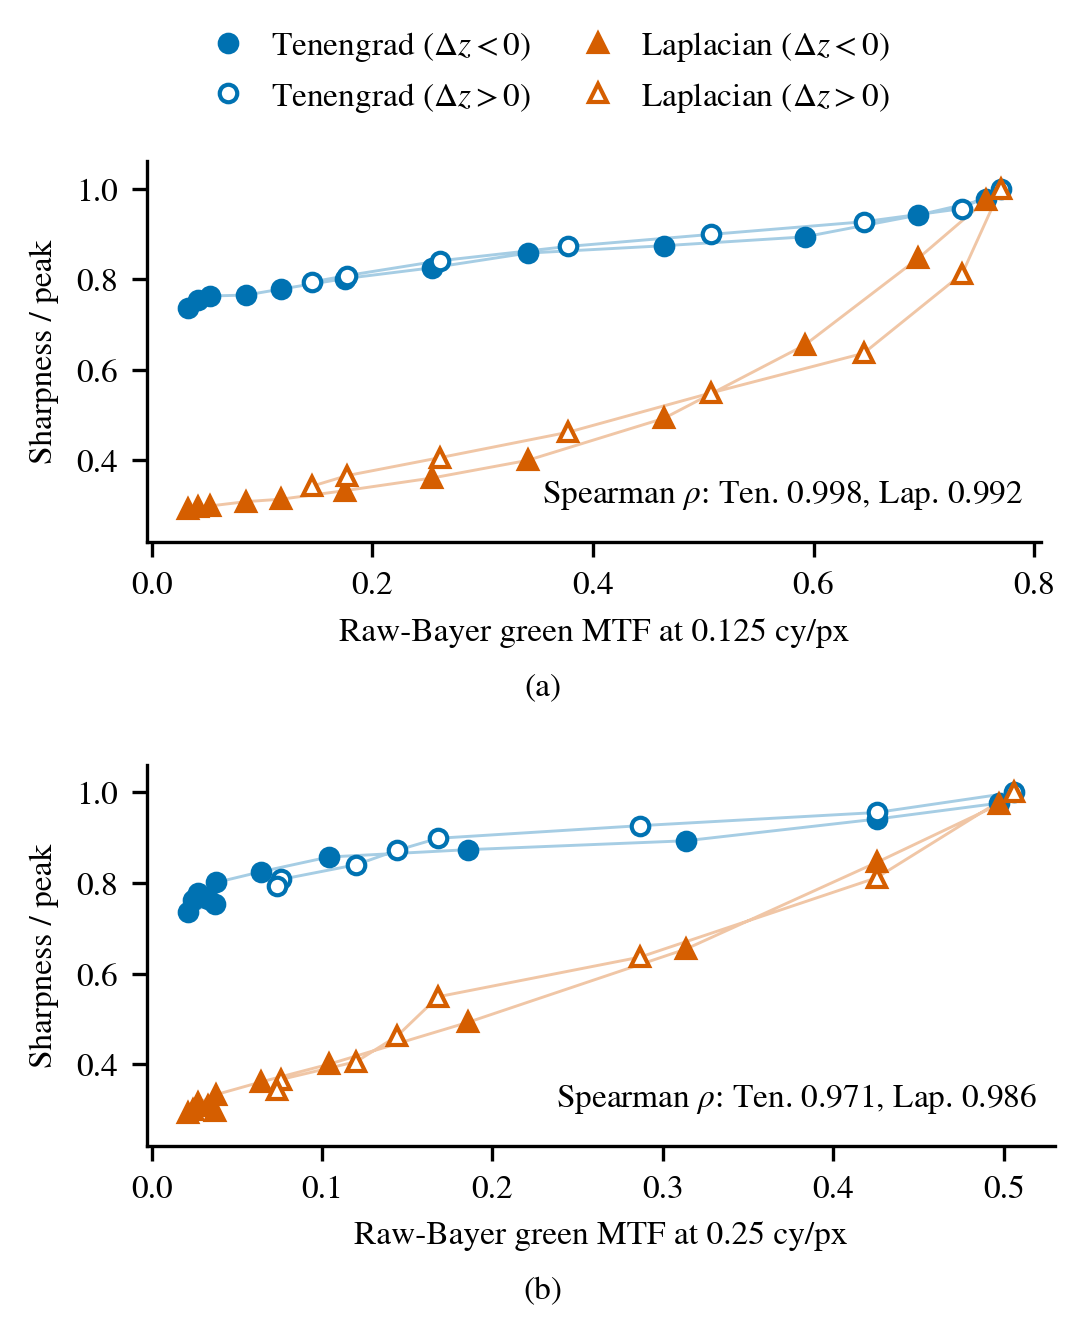
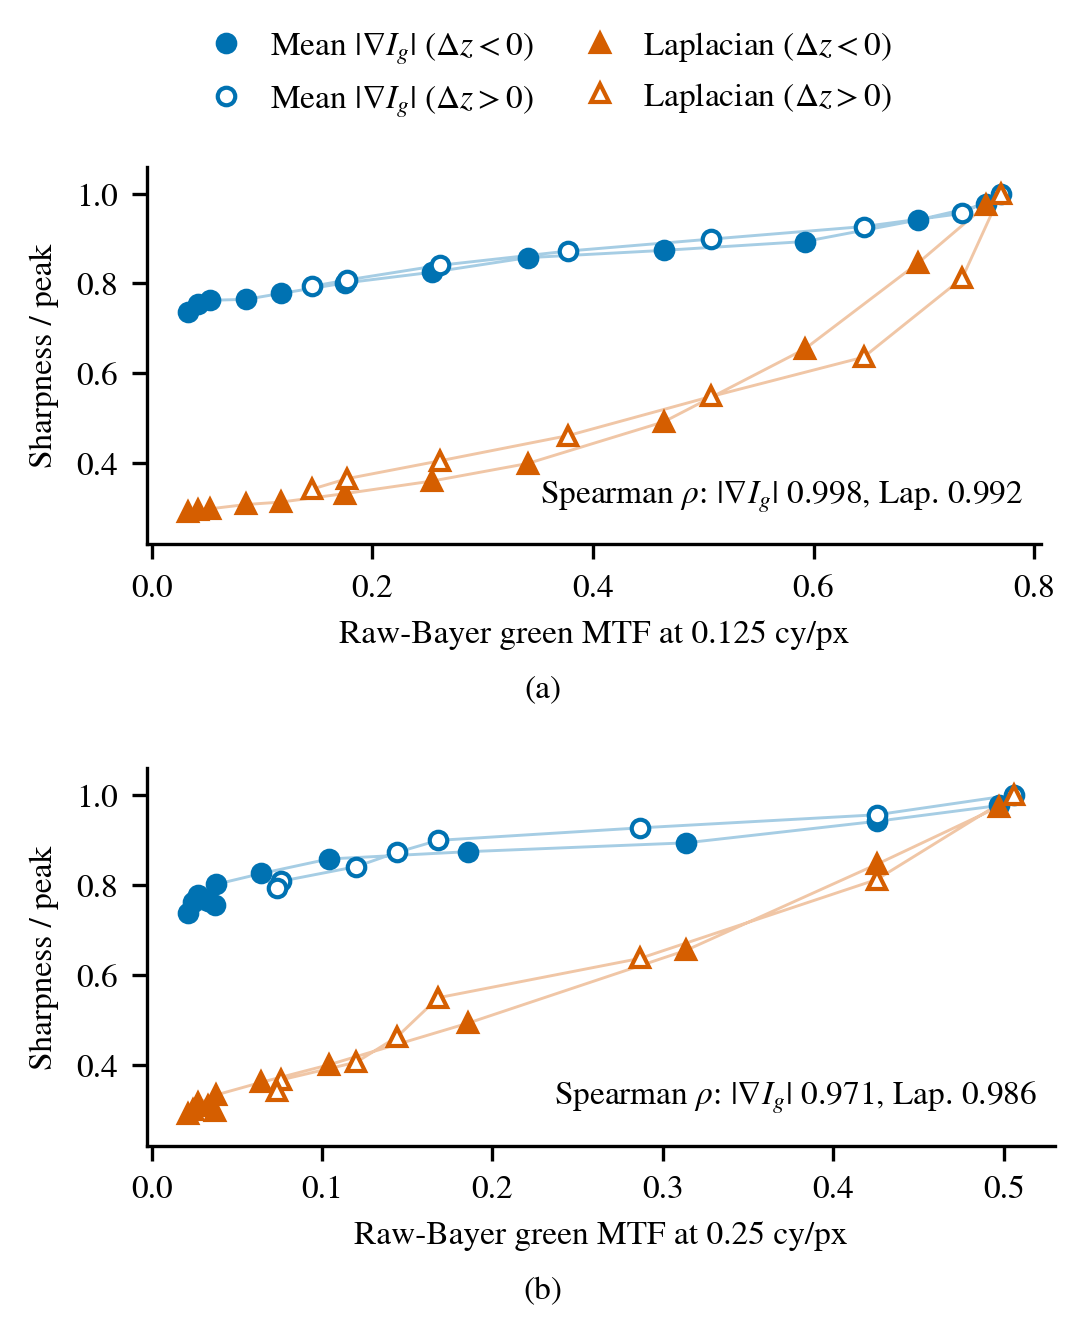
Fig. 7: relabel unsquared green gradient feature from Tenengrad to Mean |∇I_g|

diff --git a/src/fig_lab_sharpness_mtf.py b/src/fig_lab_sharpness_mtf.py
@@ -83,9 +83,9 @@ def plot_figure(df: pd.DataFrame) -> None:
         ax.plot(df[col], df["ten_norm"], color=OK["blue"], lw=0.7, alpha=0.35, zorder=1)
         ax.plot(df[col], df["lap_norm"], color=OK["orange"], lw=0.7, alpha=0.35, zorder=1)
         h1, = ax.plot(df.loc[neg, col], df.loc[neg, "ten_norm"], "o", color=OK["blue"],
-                      label="Tenengrad ($\\Delta z < 0$)")
+                      label="Mean $|\\nabla I_g|$ ($\\Delta z < 0$)")
         h2, = ax.plot(df.loc[pos, col], df.loc[pos, "ten_norm"], "o", color=OK["blue"], mfc="white",
-                      label="Tenengrad ($\\Delta z > 0$)")
+                      label="Mean $|\\nabla I_g|$ ($\\Delta z > 0$)")
         h3, = ax.plot(df.loc[neg, col], df.loc[neg, "lap_norm"], "^", color=OK["orange"],
                       label="Laplacian ($\\Delta z < 0$)")
         h4, = ax.plot(df.loc[pos, col], df.loc[pos, "lap_norm"], "^", color=OK["orange"], mfc="white",
@@ -96,7 +96,7 @@ def plot_figure(df: pd.DataFrame) -> None:
 
         rt, _ = spearmanr(df["tenengrad"], df[col])
         rl, _ = spearmanr(df["laplacian"], df[col])
-        ax.text(0.98, 0.08, f"Spearman $\\rho$: Ten. {rt:.3f}, Lap. {rl:.3f}",
+        ax.text(0.98, 0.08, f"Spearman $\\rho$: $|\\nabla I_g|$ {rt:.3f}, Lap. {rl:.3f}",
                 transform=ax.transAxes, ha="right", va="bottom")
         ax.set(xlabel=xlabel, ylabel="Sharpness / peak", ylim=(0.22, 1.06))
         sf.supxlabel(f"({tag})")
